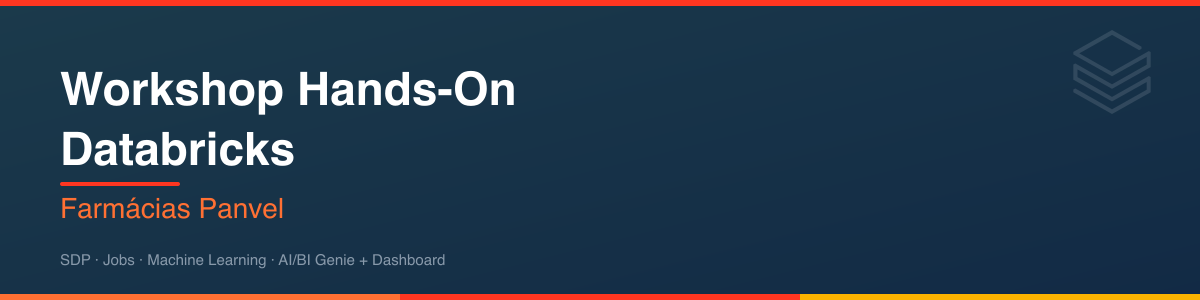
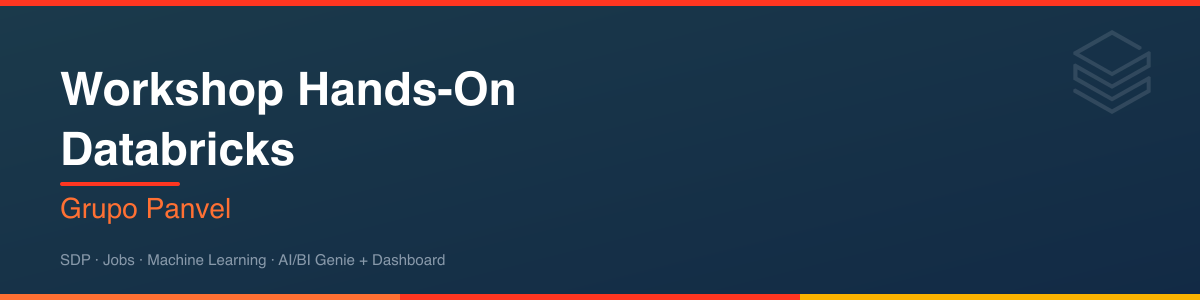
Replace "Farmácias Panvel" with "Grupo Panvel" across all assets

Changed region(s): [[0.0308, 0.66, 0.2467, 0.75]]

diff --git a/04_Lab_AIBI/04a_genie_dashboard_completo.py b/04_Lab_AIBI/04a_genie_dashboard_completo.py
@@ -129,7 +129,7 @@ spark.sql(f"""
 
 spark.sql(f"""
     COMMENT ON TABLE {catalog_name}.gold.gold_top_produtos IS
-    'Ranking dos produtos mais vendidos nas farmácias Panvel com quantidade, faturamento e desconto médio'
+    'Ranking dos produtos mais vendidos no Grupo Panvel com quantidade, faturamento e desconto médio'
 """)
 
 print("Comentários adicionados às tabelas!")
@@ -157,7 +157,7 @@ print("Comentários adicionados às tabelas!")
 # Instruções customizadas para o Genie
 instrucoes_genie = f"""
 ## Contexto
-Você é um assistente de análise de dados para as Farmácias Panvel, uma das maiores redes de farmácias do Rio Grande do Sul.
+Você é um assistente de análise de dados para o Grupo Panvel, uma das maiores redes de farmácias do Rio Grande do Sul.
 Os dados são de vendas das lojas Panvel em diversas cidades do RS.
 
 ## Regras

diff --git a/04_Lab_AIBI/04b_genie_dashboard_todo.py b/04_Lab_AIBI/04b_genie_dashboard_todo.py
@@ -132,7 +132,7 @@ for t in tabelas_genie:
 # ──────────────────────────────────────────────────────────
 # Dica: As instruções ajudam o Genie a entender o contexto dos dados.
 # Inclua:
-#   - Contexto: "Dados de vendas das Farmácias Panvel no RS"
+#   - Contexto: "Dados de vendas das Grupo Panvel no RS"
 #   - Regras: "Valores em R$", "Nome da loja = Panvel - Bairro"
 #   - Exemplos de perguntas que os usuários podem fazer
 #

diff --git a/build_deck.py b/build_deck.py
@@ -234,7 +234,7 @@ def main():
         0.8, 1.0, 8.4, 1.4, font_size=36, bold=True, color=WHITE)
     # Subtitle
     reqs += create_textbox(default_slide, "t_sub",
-        "Farmácias Panvel",
+        "Grupo Panvel",
         0.8, 2.6, 8.4, 0.6, font_size=24, color=ORANGE)
     # Bottom text
     reqs += create_textbox(default_slide, "t_bottom",

diff --git a/README.md b/README.md
@@ -1,8 +1,8 @@
 <img src="https://raw.githubusercontent.com/juliandrof/workshop-panvel/main/images/header_workshop_panvel.png">
 
-# Workshop Hands-On Databricks | Farmácias Panvel
+# Workshop Hands-On Databricks | Grupo Panvel
 
-Workshop prático de Databricks personalizado para o time de **Farmácias Panvel**, com foco em Data Engineering, Machine Learning e Analytics.
+Workshop prático de Databricks personalizado para o time de **Grupo Panvel**, com foco em Data Engineering, Machine Learning e Analytics.
 
 </br>
 
@@ -284,6 +284,6 @@ DROP CATALOG IF EXISTS workshop_panvel_<seu_nome> CASCADE;
 </p>
 
 <p align="center">
-  <strong>Workshop Hands-On Databricks — Farmácias Panvel</strong><br>
+  <strong>Workshop Hands-On Databricks — Grupo Panvel</strong><br>
   <em>Data & AI na prática</em>
 </p>
